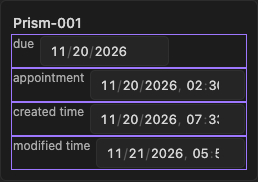
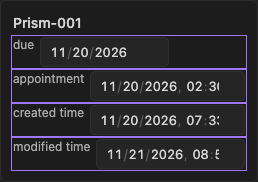
fix: preserve native date formatting with compact card styling

diff --git a/src/components/card.ts b/src/components/card.ts
@@ -1,5 +1,5 @@
 import type { App, BasesEntry, BasesPropertyId, Component } from 'obsidian';
-import { DateValue, Keymap, MarkdownRenderer, NullValue, RelativeDateValue, StringValue } from 'obsidian';
+import { Keymap, MarkdownRenderer, NullValue, StringValue } from 'obsidian';
 import type { TFile } from 'obsidian';
 import { CSS_CLASSES, DATA_ATTRIBUTES } from '../constants.ts';
 
@@ -50,9 +50,7 @@ export function renderCardTitle(titleEl: HTMLElement, entry: BasesEntry, ctx: Ca
 		titleEl.textContent = entry.file.basename;
 		return;
 	}
-	if (titleValue instanceof DateValue && !(titleValue instanceof RelativeDateValue))
-		titleEl.textContent = titleValue.toString();
-	else titleValue.renderTo(titleEl, ctx.app.renderContext);
+	titleValue.renderTo(titleEl, ctx.app.renderContext);
 }
 
 export function renderCardCover(
@@ -120,12 +118,10 @@ export function createCard(entry: BasesEntry, ctx: CardRenderCtx, cb: CardCallba
 		}
 		propertyEl.createSpan({ text: label, cls: CSS_CLASSES.CARD_PROPERTY_LABEL });
 		const valueEl = propertyEl.createSpan({ cls: CSS_CLASSES.CARD_PROPERTY_VALUE });
-		// Absolute dates use read-only text rather than clipped native inputs.
-		// Plain Markdown-link strings use Obsidian's parser; other types retain
-		// their native renderers.
+		// Keep typed values on their native renderers, including localized dates.
+		// Only plain strings containing Markdown links need parsing.
 		const text = value.toString();
-		if (value instanceof DateValue && !(value instanceof RelativeDateValue)) valueEl.textContent = text;
-		else if (
+		if (
 			Object.getPrototypeOf(value) === StringValue.prototype &&
 			/\[[^\]\n]+\]\([^\n]+\)/.test(text) &&
 			!/[!<]/.test(text)

diff --git a/tests/dateRendering.test.ts b/tests/dateRendering.test.ts
@@ -16,7 +16,7 @@ import {
 
 setupTestEnvironment();
 
-test('date titles and properties use text while relative-date formulas keep their native renderer', (t) => {
+test('date titles, properties, and relative-date formulas retain their native renderer', (t) => {
 	const app = createMockApp();
 	const controller: any = createMockQueryController([], []);
 	controller.app = app;
@@ -29,18 +29,18 @@ test('date titles and properties use text while relative-date formulas keep thei
 			? new RelativeDateValue(new Date('2026-11-20T14:30:00Z'))
 			: new DateValue(new Date('2026-11-20T14:30:00Z'));
 		const renderer = t.mock.method(value, 'renderTo', (el: HTMLElement) => {
-			el.textContent = 'relative date';
+			el.textContent = relative ? 'relative date' : 'localized date';
 		});
 		const entry = { ...createMockBasesEntry(createMockTFile('Prism.md')), getValue: () => value };
 		const title = createDivWithMethods();
 		renderCardTitle(title, entry, ctx);
 		const card = createCard(entry, ctx, (view as any)._buildCardCallbacks());
-		assert.equal(title.textContent, relative ? 'relative date' : value.toString());
+		assert.equal(title.textContent, relative ? 'relative date' : 'localized date');
 		assert.equal(
 			card.querySelector('.obk-card-property-value')?.textContent,
-			relative ? 'relative date' : value.toString(),
+			relative ? 'relative date' : 'localized date',
 		);
-		assert.equal(renderer.mock.callCount(), relative ? 3 : 0);
+		assert.equal(renderer.mock.callCount(), 3);
 	}
 	view.onClose();
 });

diff --git a/styles.css b/styles.css
@@ -554,6 +554,31 @@
 	margin: 0;
 }
 
+/* Preserve native localized dates, without the bulky disabled-input chrome.
+   Let a date move below its label rather than squeeze its internal segments. */
+.obk-card-property:has(input:is([type="date"], [type="datetime-local"])) {
+	align-items: baseline;
+	flex-wrap: wrap;
+	row-gap: 2px;
+}
+
+.obk-card-property-value:has(input:is([type="date"], [type="datetime-local"])) {
+	flex-shrink: 0;
+	max-width: 100%;
+}
+
+.obk-card :is(.obk-card-property-value, .obk-card-title) input:is([type="date"], [type="datetime-local"]) {
+	min-height: 0;
+	height: auto;
+	max-width: 100%;
+	border: 0;
+	background: transparent;
+	box-shadow: none;
+	padding: 0;
+	color: inherit;
+	font: inherit;
+}
+
 .obk-quick-add-form {
 	display: flex;
 	flex-direction: column;

diff --git a/.changeset/tidy-dates-fit.md b/.changeset/tidy-dates-fit.md
@@ -1,0 +1,5 @@
+---
+"kanban-bases-view": patch
+---
+
+Preserve native localized date rendering and remove bulky date-input styling in Kanban cards. Allow date values to wrap below their labels instead of squeezing them.
